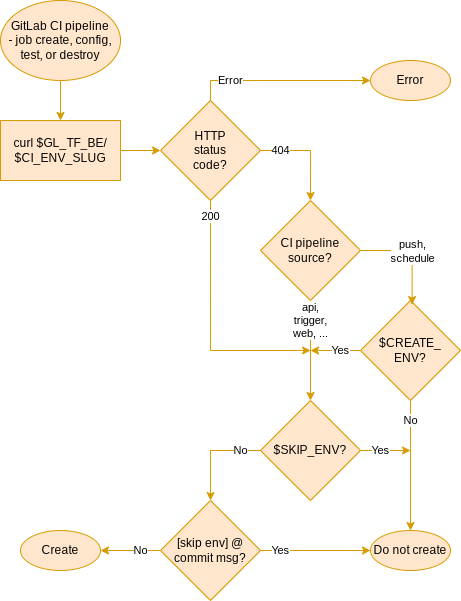
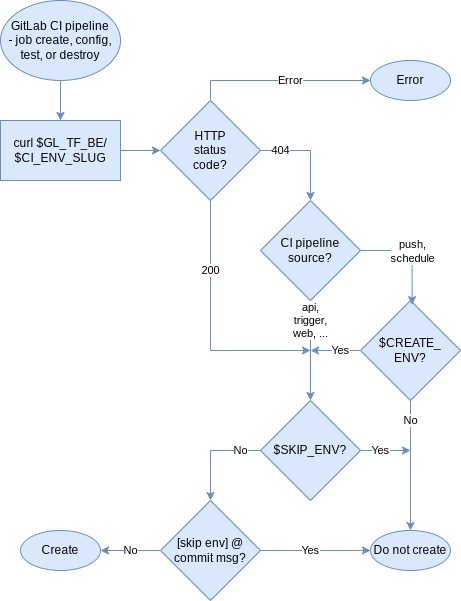
docs: improve workflow diagrams

diff --git a/README.md b/README.md
@@ -68,7 +68,7 @@ Environments are managed in stages:
 - **Config**: environment is configured by cloud-init and Ansible over SSH
 - **Destroy** (only dynamic environments): environment is removed by Terraform from Hetzner Cloud
 
-![Deploy in more detail](images/deploy.png)
+![Deploy and destroy in more detail](images/deploy-and-destroy.png)
 
 Automatically managed environments:
 
